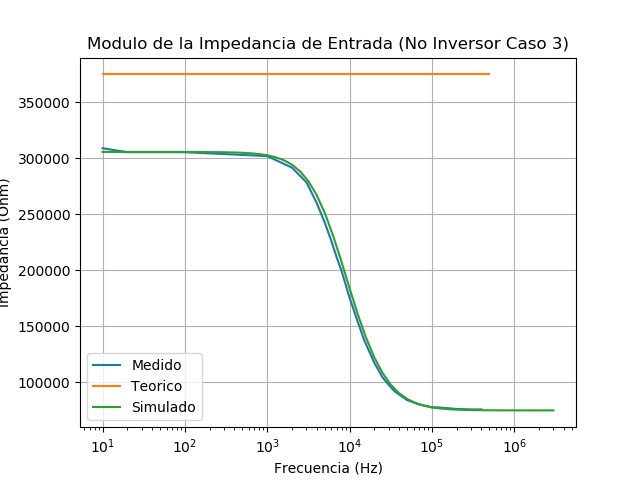
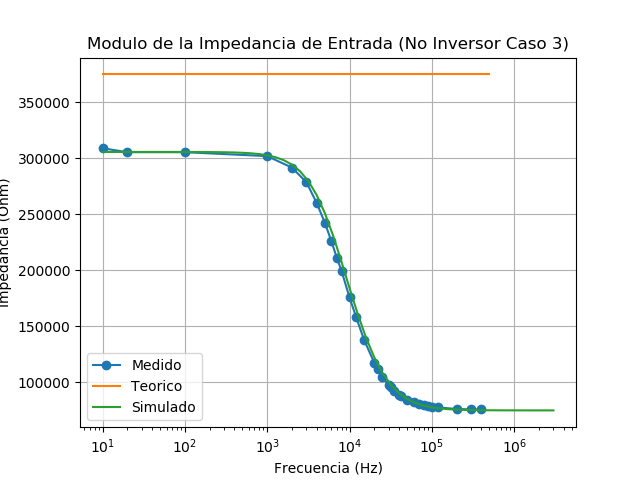
Ej 1 completado

diff --git a/TP2/InformeFinal/Ejercicio1.tex b/TP2/InformeFinal/Ejercicio1.tex
@@ -551,16 +551,11 @@ Luego se procede a mostrar las mediciones realizadas para el caso del circuito n
 %%%%%%%%%%%%%%%%%%%%%%%%%%%%%%
 \subsubsection{Máximos valores de entrada.}
 
-\begin{center}
-\textcolor{red}{\textbf{VER PARA EL NO INVERSOR.}}
-\textcolor{red}{\textbf{HACER LAS CUENTAS Y LOS GRÁFICOS.}}
-\end{center}
-
 El máximo valor de entrada a partir del cual el opamp satura se encuentra definido por diversas variables, siendo algunas de ellas la ganancia del sistema, la amplitud y la frecuencia de la entrada.
 
 Al momento de definir los valores posibles, se realizó un enfoque en las tres variables previamente mencionadas y se asumió el opamp con ganancia ideal. Cabe recordar que se empleó la formula $ V_{Out}=H(s)\cdot V_{in} $.
 
-De esta forma, el máximo valor de $V_{in}$ queda definido por la tensión de saturación del operacional. Para el utilizado en este informe (LM324), dicho valor es de $Vcc - 1.5 \ V$\footnote{Dato extraído de la hoja de datos.}, siendo así, para el caso empleado, equivalente a $13.5 \ V$. Luego, utilizando esta relación, se plasmaron los resultados, para las distintas ganancias analizadas, en la Tabla (\ref{tab:gananciaideal}). Cabe descara que para el caso 3 se realiza una excepción, ya que el fabricante informa que la máxima tensión de entrada soportada por el dispositivo sin quemarse es de $32 \ V$.
+De esta forma, el máximo valor de $V_{in}$ queda definido por la tensión de saturación del operacional. Para el utilizado en este informe (LM324), dicho valor es de $Vcc - 1.5 \ V$\footnote{Dato extraído de la hoja de datos.}, siendo así, para el caso empleado, equivalente a $13.5 \ V$. Luego, utilizando esta relación, se plasmaron los resultados, para las distintas ganancias analizadas, en la Tabla (\ref{tab:gananciaideal}). Cabe destacar que para el caso 3 se realiza una excepción, ya que el fabricante informa que la máxima tensión de entrada soportada por el dispositivo sin quemarse es de $32 \ V$.
 
 \begin{table}[H]
 \begin{center}
@@ -572,8 +567,22 @@ De esta forma, el máximo valor de $V_{in}$ queda definido por la tensión de sa
 \textbf{$V_{in-Max} \ \left[ V \right]$} & 1.35       & 13.5       & 32         \\ \hline
 \end{tabular}
 \end{center}
-\caption{Ganancia ideal para el operacional LM324.}
+\caption{Ganancia ideal para el operacional LM324 con los casos del circuito inversor.}
 \label{tab:gananciaideal}
+\end{table}
+
+\begin{table}[H]
+\begin{center}
+\label{tab:maxin}
+\begin{tabular}{|c|c|c|c|}
+\hline
+\textbf{Caso}        & \textbf{1} & \textbf{2} & \textbf{3} \\ \hline
+\textbf{Ganancia ideal}     & 8.8         & 1.6          & 0.88        \\ \hline
+\textbf{$V_{in-Max} \ \left[ V \right]$} & 1.53       & 8.43       & 15.34         \\ \hline
+\end{tabular}
+\end{center}
+\caption{Ganancia ideal para el operacional LM324 con los casos del circuito no inversor.}
+\label{tab:gananciaidealnoinv}
 \end{table}
 
 Luego se graficó la máxima tensión de entrada en función de la ganancia:
@@ -585,12 +594,19 @@ Luego se graficó la máxima tensión de entrada en función de la ganancia:
 \end{figure} 
 
 También se analizó la máxima amplitud de entrada en función de la frecuencia tal que no haya Slew-Rate, el cual es un efecto que se detalla con mayor profundidad en su propia sección, ni saturación.
-La cual puede ser apreciada en el siguiente gráfico:
+La cual puede ser apreciada en el siguiente gráfico para el circuito inversor:
 \begin{figure}[H]	
 	\centering
 	\includegraphics[width=\textwidth]{Ejercicio1/Imagenes/maxvinsr.png}
-	\caption{Máxima tensión de entrada sin saturación ni Slew-Rate.}
+	\caption{Máxima tensión de entrada sin saturación ni Slew-Rate para el circuito inversor.}
 	\label{fig:MaxVinsr}
+\end{figure} 
+A continuación, la máxima amplitud de entrada en función de la frecuencia para el circuito no inversor:
+\begin{figure}[H]	
+	\centering
+	\includegraphics[width=\textwidth]{Ejercicio1/Imagenes/maxvinsr_noinv.png}
+	\caption{Máxima tensión de entrada sin saturación ni Slew-Rate para el circuito no inversor.}
+	\label{fig:MaxVinsrnoinv}
 \end{figure} 
 %%%%%%%%%%%%%%%%%%
 \subsubsection{Principales Características.}

diff --git a/TP2/Ej1/Mediciones No inversor/Zin/inputimpedanceplotter.py b/TP2/Ej1/Mediciones No inversor/Zin/inputimpedanceplotter.py
@@ -4,8 +4,8 @@ import pandas as pd
 
 
 
-med = pd.read_excel("Caso3.xlsx")
-teo = pd.read_excel("Caso3Teo.xlsx")
+med = pd.read_excel("Caso1.xlsx")
+teo = pd.read_excel("Caso1Teo.xlsx")
 
 frequencymed=[]
 magmed=[]
@@ -90,7 +90,7 @@ def read_file_spice(filename):
         data["pha"].append(c3)
 
     return data
-data = read_file_spice("Caso3enOHM.txt")
+data = read_file_spice("Caso1enOHM.txt")
 print(data["pha"])
 magsim=[]
 for abbs in data["abs"]:
@@ -101,22 +101,22 @@ for phha in data["pha"]:
     phha=(-1)*phha+180
     phasim.append(phha)
 
-plt.title("Modulo de la Impedancia de Entrada (No Inversor Caso 3)")
+plt.title("Modulo de la Impedancia de Entrada (No Inversor Caso 1)")
 plt.xlabel("Frecuencia (Hz)")
 plt.ylabel("Impedancia (Ohm)")
 plt.xscale("log")
 plt.grid(b=True)
-plt.plot(frequencymed, magmed, label="Medido")
+plt.plot(frequencymed, magmed, marker='o', label="Medido")
 plt.plot(frequencyteo, magteo, label="Teorico")
 plt.plot(data["f"], magsim, label="Simulado")
 plt.legend()
 plt.show()
-plt.title("Fase de la Impedancia de Entrada (No Inversor Caso 3)")
+plt.title("Fase de la Impedancia de Entrada (No Inversor Caso 1)")
 plt.xlabel("Frecuencia (Hz)")
 plt.ylabel("Grados (º)")
 plt.xscale("log")
 plt.grid(b=True)
-plt.plot(frequencymed, phamed, label="Medido")
+plt.plot(frequencymed, phamed, marker='o', label="Medido")
 plt.plot(frequencyteo, phateo, label="Teorico")
 plt.plot(data["f"], phasim, label="Simulado")
 plt.legend()
